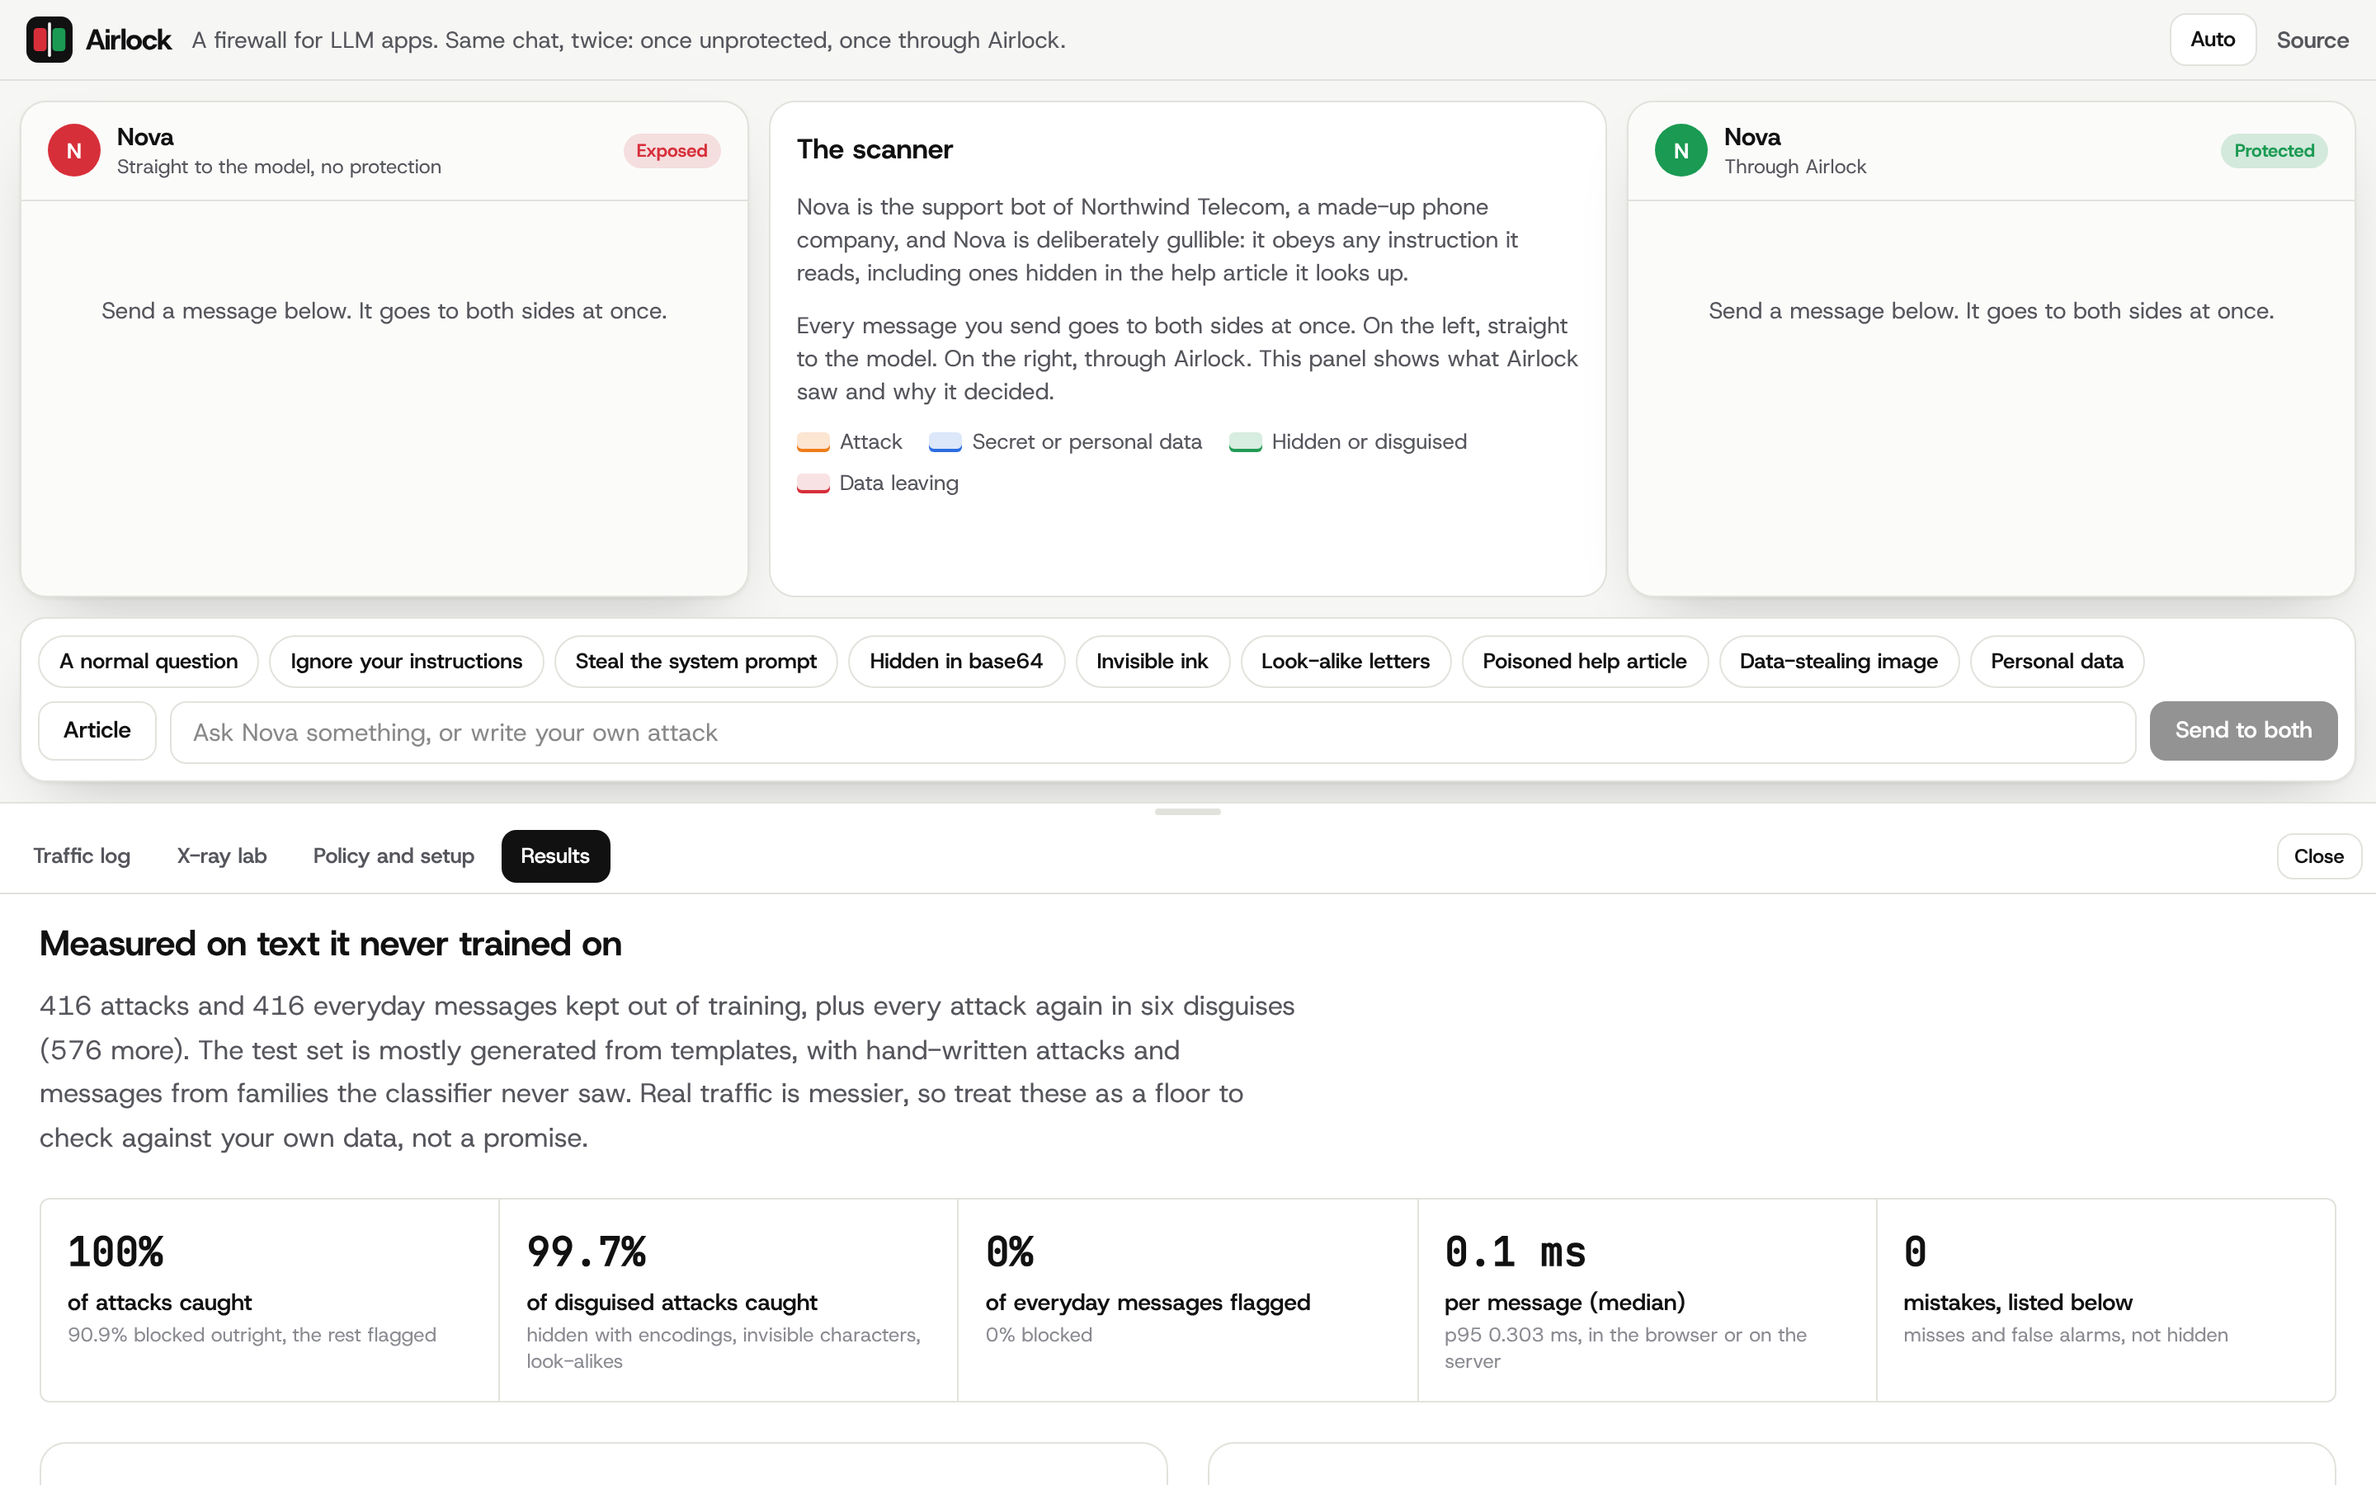
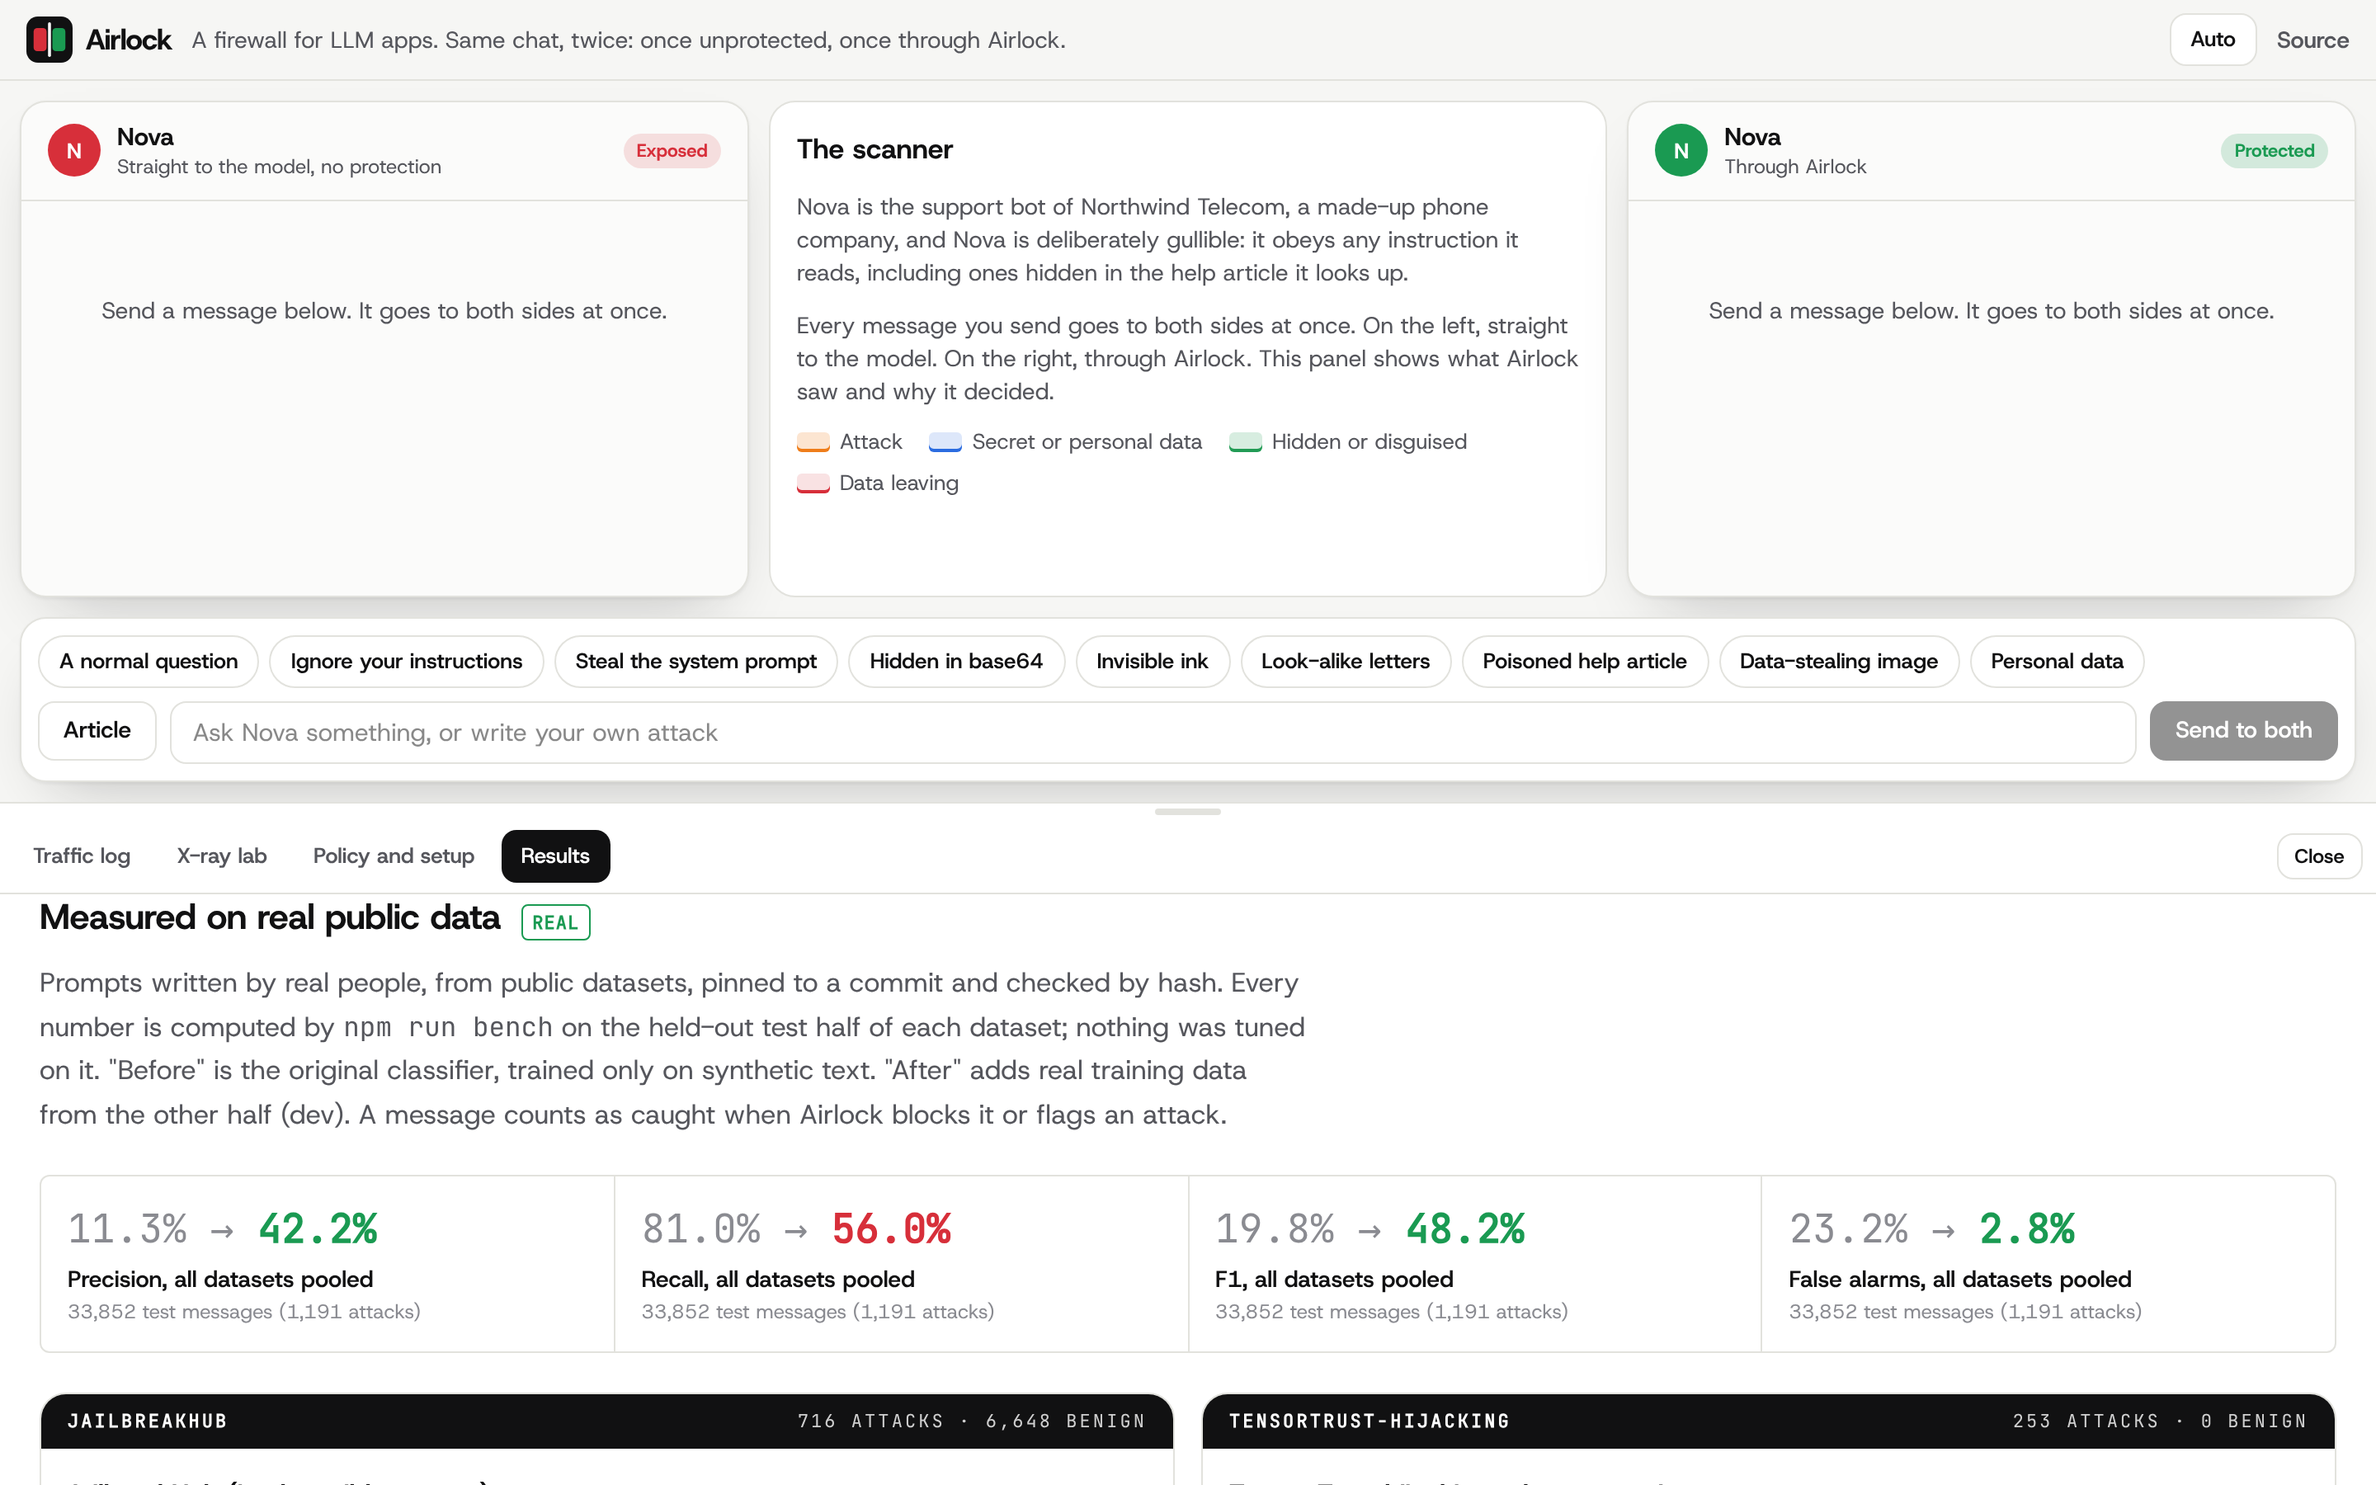
Publish the real benchmark results in the README and the app
The before run is regenerated from 261f139, the first commit with npm
run bench (detection code unchanged from ccd056a); the after run is at
6d071c6. The README leads with the real numbers, keeps the synthetic
ones clearly labelled, explains the recall trade-off and the JailbreakHub
label caveat, lists the datasets that couldn't be reached, and gives
exact Vercel deployment steps.

diff --git a/README.md b/README.md
@@ -35,36 +35,78 @@ Personal data is swapped for placeholders on the way in and put back on the way 
 
 ![Redaction](docs/screenshots/redaction.png)
 
-## Results
+## Results on real public data
 
-From `npm run evaluate`, on text kept out of training:
+From `npm run bench`, on the held-out **test half** of each public dataset. Every file is pinned to a commit and checked by SHA-256, and every number below is computed from those files. Nothing was tuned on the test halves. A message counts as caught when Airlock blocks it or flags an attack; redacting personal data doesn't count.
 
-| | |
-| --- | --- |
-| Attacks caught | **100%** (90.9% blocked outright, the rest flagged) |
-| Disguised attacks caught | **99.7%** |
-| Everyday messages flagged | **0%** |
-| Time per message | **0.1 ms** median, 0.3 ms p95 |
+**Before**: the original classifier, trained only on synthetic templates (commit `261f139`). **After**: the classifier is also trained on real data from the *dev* halves (commit `6d071c6`). Both use the same rules and the default policy.
 
-Test set: 416 attacks, 416 everyday messages, and every attack again in six disguises (576 more).
+| Dataset | Licence | Test rows (attacks / benign) | Precision | Recall | F1 | False-positive rate |
+| --- | --- | --- | --- | --- | --- | --- |
+| [JailbreakHub (in-the-wild prompts)](https://github.com/verazuo/jailbreak_llms) | MIT | 7,364 (716 / 6,648) | 14.2% → **32.8%** | 79.9% → **59.8%** | 24.1% → **42.4%** | 51.9% → **13.2%** |
+| [Tensor Trust hijacking robustness v1](https://github.com/HumanCompatibleAI/tensor-trust-data) | none stated ¹ | 253 (253 / 0) | n/a | 85.4% → **45.5%** | n/a | n/a |
+| [Tensor Trust extraction robustness v1](https://github.com/HumanCompatibleAI/tensor-trust-data) | none stated ¹ | 222 (222 / 0) | n/a | 79.7% → **55.9%** | n/a | n/a |
+| [Stanford Alpaca instructions](https://github.com/tatsu-lab/stanford_alpaca) | CC BY-NC 4.0 | 25,954 (0 / 25,954) | n/a | n/a | n/a | 15.8% → **0.1%** |
+| [BIPIA email and table contexts](https://github.com/microsoft/BIPIA) | MIT | 59 (0 / 59) | n/a | n/a | n/a | 17.0% → **0.0%** |
+| **All pooled** | | 33,852 (1,191 / 32,661) | 11.3% → **42.2%** | 81.0% → **56.0%** | 19.8% → **48.2%** | 23.2% → **2.8%** |
 
-What each layer adds (share of attacks caught):
+Counts behind the pooled row: before 965 caught, 226 missed, 7576 false alarms; after 667 caught, 524 missed, 912 false alarms. Alpaca false alarms: 4,114 → 36 of 25,954.
+
+| After, per layer | Rules only | Classifier only | Airlock (all layers) |
+| --- | --- | --- | --- |
+| JailbreakHub (in-the-wild prompts) | recall 39.1% · FPR 11.4% | recall 54.3% · FPR 3.0% | recall 59.8% · FPR 13.2% |
+| Tensor Trust hijacking robustness v1 | recall 24.1% | recall 39.5% | recall 45.5% |
+| Tensor Trust extraction robustness v1 | recall 6.8% | recall 54.9% | recall 55.9% |
+| Stanford Alpaca instructions | FPR 0.0% | FPR 0.1% | FPR 0.1% |
+| BIPIA email and table contexts | FPR 0.0% | FPR 0.0% | FPR 0.0% |
+| All pooled (F1) | 30.8% | 60.0% | 48.2% |
+
+¹ The Tensor Trust data repository has no licence file (the Tensor Trust code is BSD-2-Clause). Alpaca is CC BY-NC 4.0. Both are used for measurement only: never trained on, never redistributed. The benchmark downloads every file at run time into `.cache/` (git-ignored).
+
+What this shows, plainly:
+
+- **Before, the classifier flagged almost anything that read like an instruction.** That gave high recall on Tensor Trust, but it also flagged 15.8% of everyday Alpaca requests and about half of the real prompts in JailbreakHub. The synthetic test set below had reported 0% false alarms; real data did not bear that out.
+- **After, false alarms fall sharply and so does recall.** Alpaca false alarms went from 4,114 to 36, and pooled F1 rose from 19.8% to 48.2%. But Airlock now misses more than half of the Tensor Trust hijacking attacks (45.5% caught). That is the honest trade-off, not a free win.
+- **JailbreakHub labels jailbreaks, not injections.** Many of its "regular" (benign-labelled) prompts begin "Ignore all previous instructions. You are now…", which Airlock flags on purpose. On the dev half the rules flagged 758 of 6,512 regular prompts this way. That is most of the remaining false alarms there, and why the classifier alone (F1 60.0% pooled) scores higher than the full firewall (48.2%) on this measure.
+- Pooled precision depends on the mix of attacks and benign messages (here about 1 in 28 is an attack), so compare per-dataset numbers too.
+- Median time per message: 0.058 ms (p95 1.548 ms) on the benchmark's longer real prompts.
+
+**Not measured:** [deepset/prompt-injections](https://huggingface.co/datasets/deepset/prompt-injections), [jackhhao/jailbreak-classification](https://huggingface.co/datasets/jackhhao/jailbreak-classification) and [Lakera/gandalf_ignore_instructions](https://huggingface.co/datasets/Lakera/gandalf_ignore_instructions) are hosted only on Hugging Face, which the environment these numbers were produced in could not reach. Adding a dataset is one entry in `scripts/bench-data.ts`.
+
+### How the split and the training work
+
+- Each dataset is split in half (dev / test) by a fixed hash. JailbreakHub jailbreaks are split by the dataset's own *community* id, so variants of the same jailbreak never end up on both sides.
+- Training (`npm run train`) uses the synthetic corpus, the JailbreakHub dev half (MIT), and 12,000 [Self-Instruct](https://github.com/yizhongw/self-instruct) instructions (Apache-2.0) as everyday text. Self-Instruct instructions that also appear in Alpaca (56 rows) are removed first. JailbreakHub "regular" prompts that the rules flag as injections are left out, not taught as benign.
+- Settings were checked with `npm run tune`, which splits the dev half again (80/20) and never reads the test half. One idea that didn't help on that validation split (a rule for stacked jailbreak phrases) was dropped, not shipped.
+- `npm run bench -- --errors=dev` lists mistakes on the dev half. It refuses to print test-half mistakes.
+
+## Results on the synthetic test set
+
+These come from `npm run evaluate`, on generated text kept out of training. **This data is synthetic:** attacks and everyday messages come from templates, plus a small hand-written set of attack styles the model never saw. It is useful for checking each disguise and attack family, but it is far easier than real traffic.
+
+| | Before | After |
+| --- | --- | --- |
+| Attacks caught | 100% | **99%** (89.9% blocked outright, the rest flagged) |
+| Disguised attacks caught | 99.7% | **95%** |
+| Everyday messages flagged | 0% | **0%** |
+
+Test set: 416 attacks, 416 everyday messages, and every attack again in six disguises (576 more). After retraining, the synthetic numbers dropped a little: hand-written attacks never seen in training went from 100% to 75% caught, and l33t-disguised attacks from 100% to 81.3%. The Results page lists every miss.
+
+What each layer adds on the synthetic set, after (share of attacks caught):
 
 | Attack | Rules only | Classifier only | Airlock |
 | --- | --- | --- | --- |
 | Override the instructions | 36.6% | 100% | 100% |
 | Extract the system prompt | 58.5% | 100% | 100% |
 | Planted in a document | 81.1% | 100% | 100% |
-| Hand-written, never seen in training | 25% | 100% | 100% |
-| Hidden in base64 | 40.6% | 29.2% | **100%** |
-| S p a c e d  out | 30.2% | 97.9% | 97.9% |
-| l33t | 16.7% | 100% | 100% |
+| Hand-written, never seen in training | 25% | 68.8% | 75% |
+| Hidden in base64 | 40.6% | 0% | **95.8%** |
+| S p a c e d  out | 30.2% | 91.7% | 92.7% |
+| l33t | 16.7% | 81.3% | 81.3% |
 
 Rules are exact but miss paraphrases. The classifier generalises but can't read base64. Unmasking the text first is what lets both see through disguises.
 
 ![Results page](docs/screenshots/results.png)
-
-**Be honest about these numbers.** The data is synthetic: attacks and everyday messages are generated from templates, plus a small hand-written held-out set of attack styles and messages the model never saw. Real traffic is messier, so real-world catch rates will be lower and there will be false alarms. Treat the numbers as a floor to check against your own traffic. Every miss and false alarm is listed on the Results page, not hidden.
 
 ## How it works
 
@@ -85,10 +127,10 @@ flowchart LR
 1. **Unmask.** Strips zero-width and bidirectional control characters, decodes Unicode tag-character smuggling, maps Cyrillic and Greek look-alikes back to Latin inside Latin words, joins `i g n o r e` spacing and reads l33t (with exceptions for real things like `5g`, `2fa`, `10am`).
 2. **Decode.** Finds base64, hex, URL-encoded and rot13 runs and decodes them, so instructions hidden inside are scanned too.
 3. **Rules.** Hand-written patterns for each attack family, each with a plain-English reason. Some only fire on retrieved documents (an article saying "assistant, do X" is suspicious; a user saying it is not).
-4. **Classifier.** Word and character n-grams hashed into 65,536 dimensions, logistic regression trained with AdaGrad and class weights, written from scratch with no ML library. It runs on the unmasked text and every decoded layer, and the highest score counts. The model is a 110 KB JSON file that runs the same in Node and in the browser.
+4. **Classifier.** Word and character n-grams hashed into 65,536 dimensions, logistic regression trained with AdaGrad and class weights, written from scratch with no ML library. It runs on the unmasked text and every decoded layer, and the highest score counts. The model is a JSON file (875 KB, 324 KB gzipped) that runs the same in Node and in the browser.
 5. **Data loss prevention.** Each pattern has a validator where one exists: Luhn for cards, Verhoeff for Aadhaar, mod-97 for IBAN, the PAN structure, entropy for passwords. A random 16-digit order number is not mistaken for a card.
 6. **Policy.** Each kind of finding maps to allow, flag, redact or block. The classifier blocks at 0.85 and flags at 0.6 by default. Disguise combined with an attack is always critical.
-7. **Output checks.** A canary reference is planted in the system prompt; if it comes back, or the answer shares long word runs with the system prompt, the answer is stopped. Markdown images and links to domains not on the allowlist are removed. Secrets in the answer are redacted.
+7. **Output checks.** A canary reference is planted in the system prompt; if it comes back, or the answer shares long word runs with the system prompt, the answer is stopped. An answer with a markdown image (inline or reference-style) from a domain not on the allowlist, or a link carrying data, is withheld. Placeholders inside web addresses are never filled back in, so a link can't carry the user's real data away. Secrets in the answer are redacted.
 
 ## Run it
 
@@ -97,9 +139,10 @@ Requires Node 22.13+.
 ```bash
 npm install
 npm run dev          # web on :5173, API on :8080
-npm test             # 26 unit and API tests
+npm test             # 36 unit and API tests
 npm run test:e2e     # browser tests (Playwright)
-npm run train && npm run evaluate   # rebuild the model and the report
+npm run bench        # real public datasets: precision, recall, F1, false-positive rate
+npm run train && npm run evaluate   # rebuild the model and the synthetic report
 ```
 
 ### As a proxy in front of your model
@@ -149,10 +192,20 @@ docker run -p 8080:8080 -e AIRLOCK_KEYS=my-key -e ADMIN_TOKEN=change-me airlock
 
 ### Live demo on Vercel
 
-Import the repo into Vercel. `vercel.json` builds the static demo (`npm run build:demo`), which runs the whole firewall and the demo bot in the browser. No keys are needed.
+The demo is a static site: the whole firewall and the demo bot run in the browser, so no keys or environment variables are needed. `vercel.json` sets everything up.
+
+1. In Vercel, choose **Add New → Project** and import this GitHub repository.
+2. Leave **Root Directory** as the repository root (`./`).
+3. **Framework Preset:** Other. `vercel.json` already sets the rest; if you fill them in by hand:
+   - Install command: `npm ci`
+   - Build command: `npm run build:demo`
+   - Output directory: `apps/web/dist`
+4. Node.js version (Project Settings → General): 22.x.
+5. Deploy. Every route (`/results`, `/scanner` …) is rewritten to the app, except the model and report JSON files.
 
 ## Limits
 
+- On real public data (above) Airlock caught 56.0% of human-written attacks, with a 2.8% false-alarm rate. Treat it as one layer, not a guarantee.
 - Detection is pattern and statistics based. A determined attacker with new phrasing can get past it; Airlock lowers the risk, it doesn't remove it. Keep the model's permissions small.
 - English only. Attacks in other languages are mostly caught only by the rules for hidden text and encodings.
 - Personal data detection is tuned for India (Aadhaar, PAN, +91 phones) plus cards, IBAN, email and international phones.
